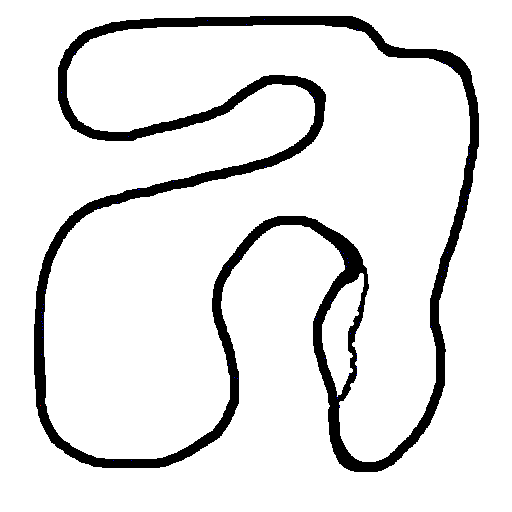
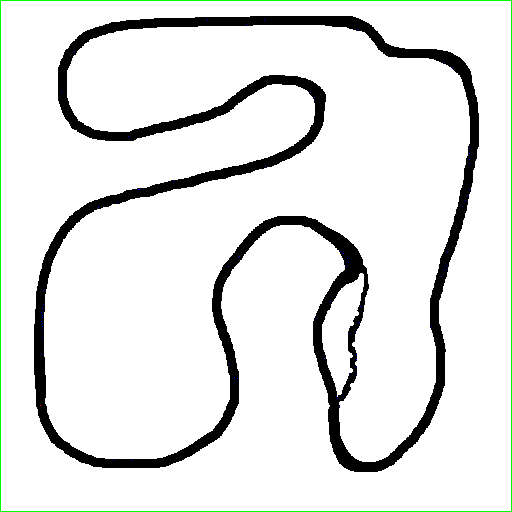
Added walls arround the map

diff --git a/Assets/Code/Player/Flashing.cs b/Assets/Code/Player/Flashing.cs
@@ -1,0 +1,54 @@
+using System.Collections;
+using System.Collections.Generic;
+using UnityEngine;
+
+public class Flashing : MonoBehaviour
+{
+    private float timer = 0f;
+    private SpriteRenderer render;
+
+    public float flashtime = 2f;
+    public float lastFlash = 0f;
+    public float flashlength = 0.2f;
+
+    public bool isFlashing = false;
+
+    private void Start()
+    {
+        render = GetComponent<SpriteRenderer>();
+        timer = flashtime;
+        isFlashing = true;
+        render.enabled = false;
+        lastFlash = timer;
+    }
+
+    private void Update()
+    {
+        timer -= Time.deltaTime;
+
+        if(isFlashing)
+        {
+            if((lastFlash - flashlength) > timer)
+            {
+                isFlashing = false;
+                render.enabled = true;
+                lastFlash = timer;
+            }
+        }
+        else if(!isFlashing)
+        {
+            if((lastFlash - flashlength) > timer)
+            {
+                isFlashing = true;
+                render.enabled = false;
+                lastFlash = timer;
+            }
+        }
+
+        if(timer <= 0)
+        {
+            render.enabled = true;
+            Destroy(this);
+        }
+    }
+}

diff --git a/Assets/Code/Game/GameManager.cs b/Assets/Code/Game/GameManager.cs
@@ -24,11 +24,26 @@ public class GameManager : MonoBehaviour
 
     public void SpawnBarrels()
     {
+        GameObject barrelsParent = new GameObject("Barrel-Parrent");
+        GameObject wallParent = new GameObject("WallParents");
+
         foreach (var s in currentMap.spawnables)
         {
             if (s.ID == ENTITYID.BARREL)
             {
                 GameObject go = Instantiate(barrelPrefab, s.position, Quaternion.identity);
+                go.transform.parent = barrelsParent.transform;
+            }
+            if(s.ID == ENTITYID.WALL)
+            {
+                GameObject go = new GameObject("Wall");
+                go.transform.position = s.position;
+                var b = go.AddComponent<BoxCollider>();
+                b.isTrigger = true;
+                b.size = new Vector3(GameManager.singleton.currentMap.scale, 10, GameManager.singleton.currentMap.scale);
+                b.center = new Vector3(GameManager.singleton.currentMap.scale / 2, 10 / 2, GameManager.singleton.currentMap.scale / 2);
+                go.tag = "CrashableWall";
+                go.transform.parent = wallParent.transform;
             }
         }
     }

diff --git a/Assets/Code/Player/PlayerController.cs b/Assets/Code/Player/PlayerController.cs
@@ -128,8 +128,23 @@ public class PlayerController : MonoBehaviour
         {
             IsAlive = false;
             crashTimeOutTimer = crashTimer;
+            gameObject.transform.GetChild(0).gameObject.AddComponent<Flashing>();
 
             if(sounds)
+            {
+                sounds.OnCrash();
+            }
+        }
+        else if(collider.tag == "CrashableWall")
+        {
+            IsAlive = false;
+            crashTimeOutTimer = crashTimer;
+            gameObject.transform.GetChild(0).gameObject.AddComponent<Flashing>();
+
+            body.MoveRotation(Quaternion.Euler(this.transform.rotation.eulerAngles.x, this.transform.rotation.eulerAngles.y - 180, this.transform.rotation.eulerAngles.z));
+            body.MovePosition(this.transform.forward * 0.25f);
+
+            if (sounds)
             {
                 sounds.OnCrash();
             }

diff --git a/Assets/Code/Game/MapGeneration/Map.cs b/Assets/Code/Game/MapGeneration/Map.cs
@@ -40,6 +40,11 @@ public class Map
                     blockMapping[x, y] = MAPINGS.TRACK;
                     spawnables.Add(new SpawnableEntites(ENTITYID.BARREL, new Vector3(x * scale, 0, y * scale)));
                 }
+                else if(imageColor == Color.green)
+                {
+                    blockMapping[x, y] = MAPINGS.NONTRACK;
+                    spawnables.Add(new SpawnableEntites(ENTITYID.WALL, new Vector3(x * scale, 0, y * scale)));
+                }
                 else if(imageColor == Color.white)
                 {
                     blockMapping[x, y] = MAPINGS.NONTRACK;
@@ -58,6 +63,7 @@ public static class MAPINGS
 public static class ENTITYID
 {
     public static int BARREL = 0;
+    public static int WALL = 1;
 }
 
 public class SpawnableEntites
